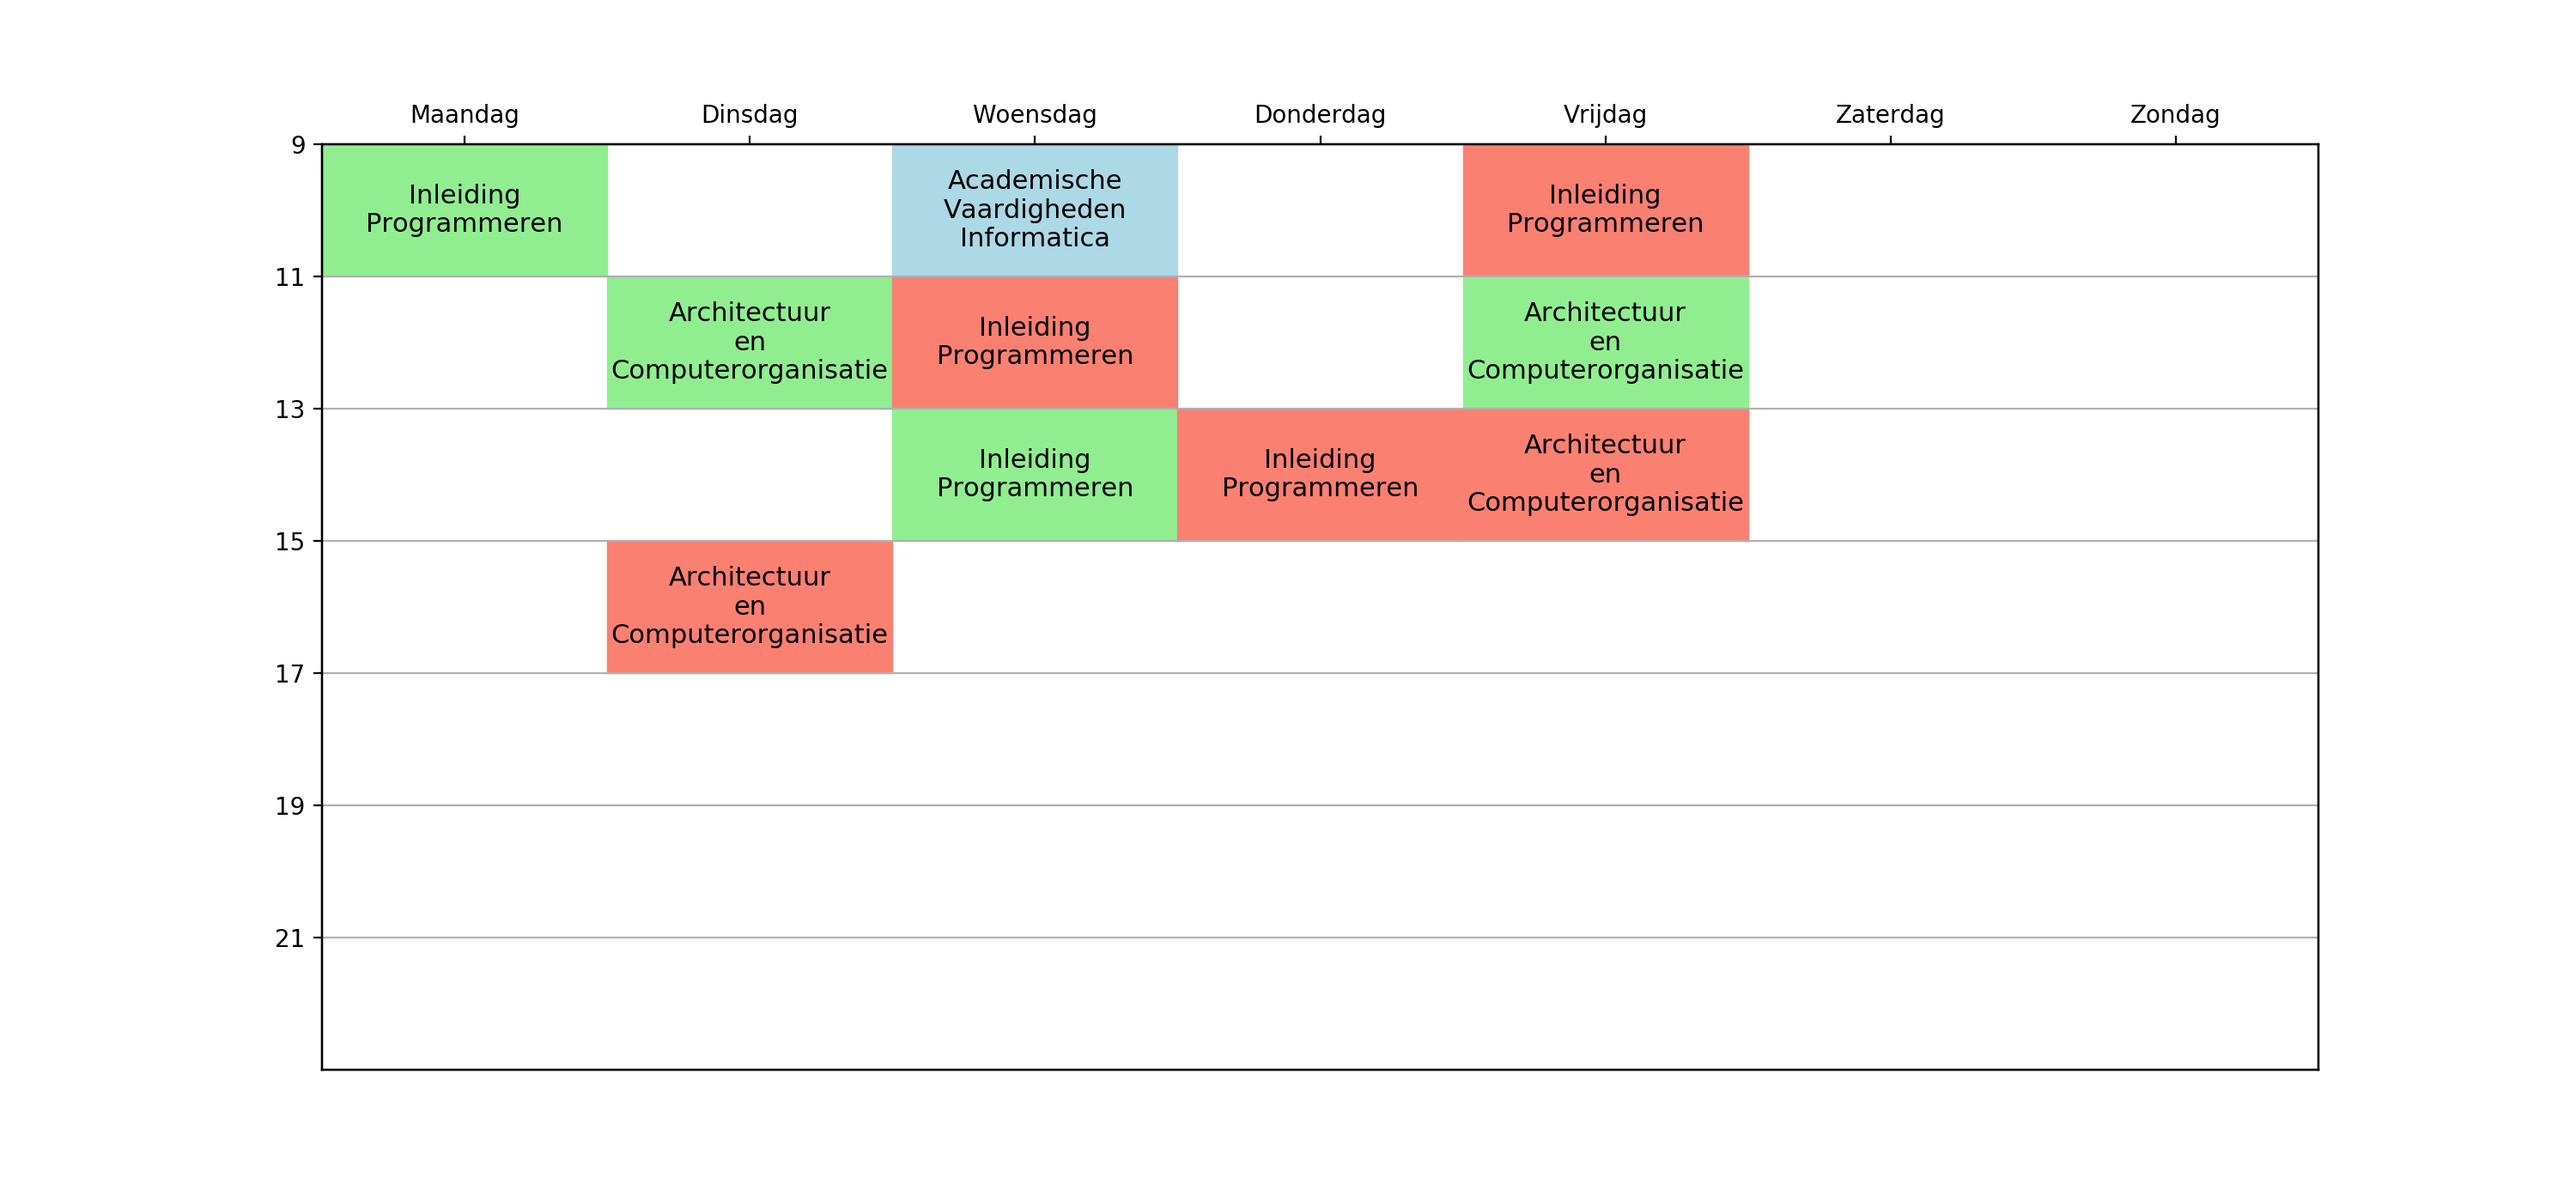
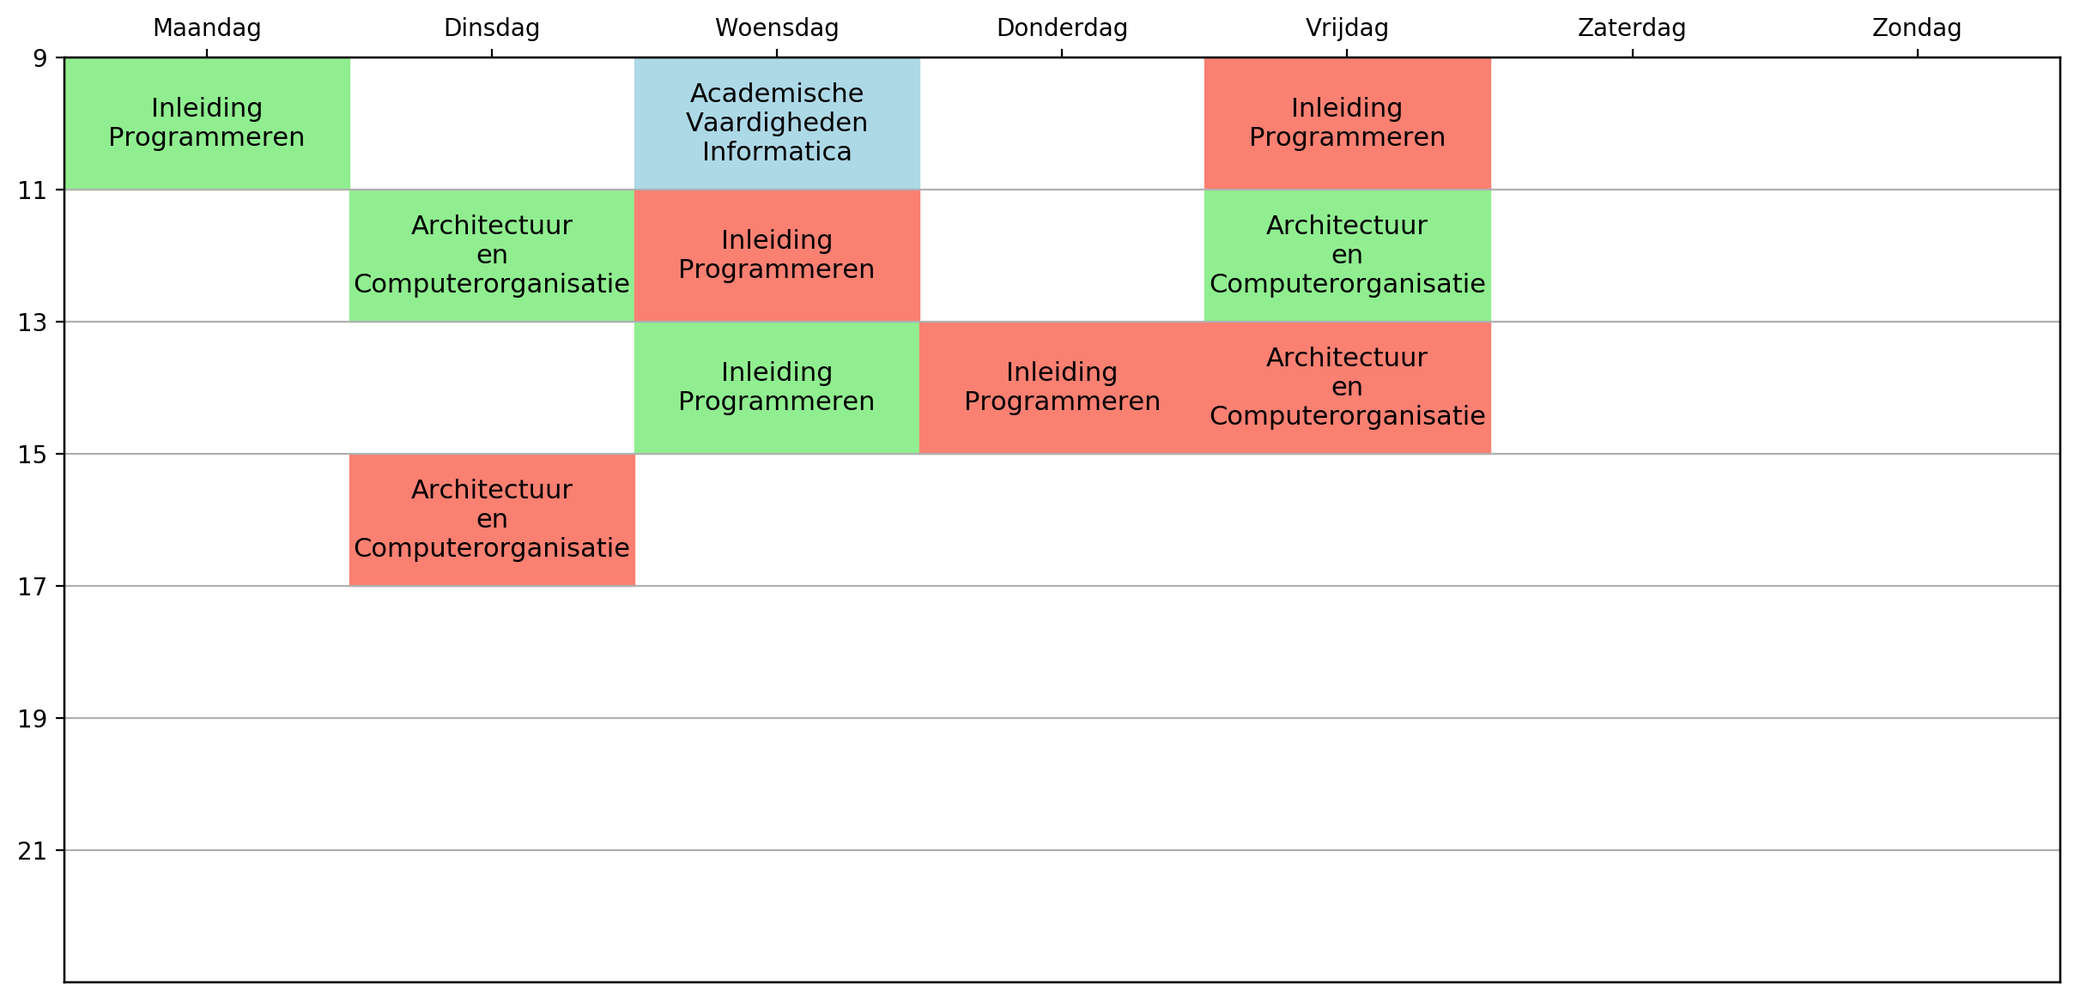
Made background transparent and decreased margin size

diff --git a/timetable.py b/timetable.py
@@ -62,4 +62,4 @@ if __name__ == '__main__':
     ax2.set_xticklabels(DAYS)
     ax2.get_yaxis().set_visible(False)
 
-    plt.savefig('{0}.png'.format(args.output.split('.')[0]), dpi=200)
+    plt.savefig('{0}.png'.format(args.output.split('.')[0]), dpi=200, transparent=True, bbox_inches='tight')

diff --git a/README.md b/README.md
@@ -1,2 +1,3 @@
 # Timetable
-A simple Python script to draw weekly timetables
+A simple Python script to draw weekly timetables.
+Check out the examples to see how to format the input files.
